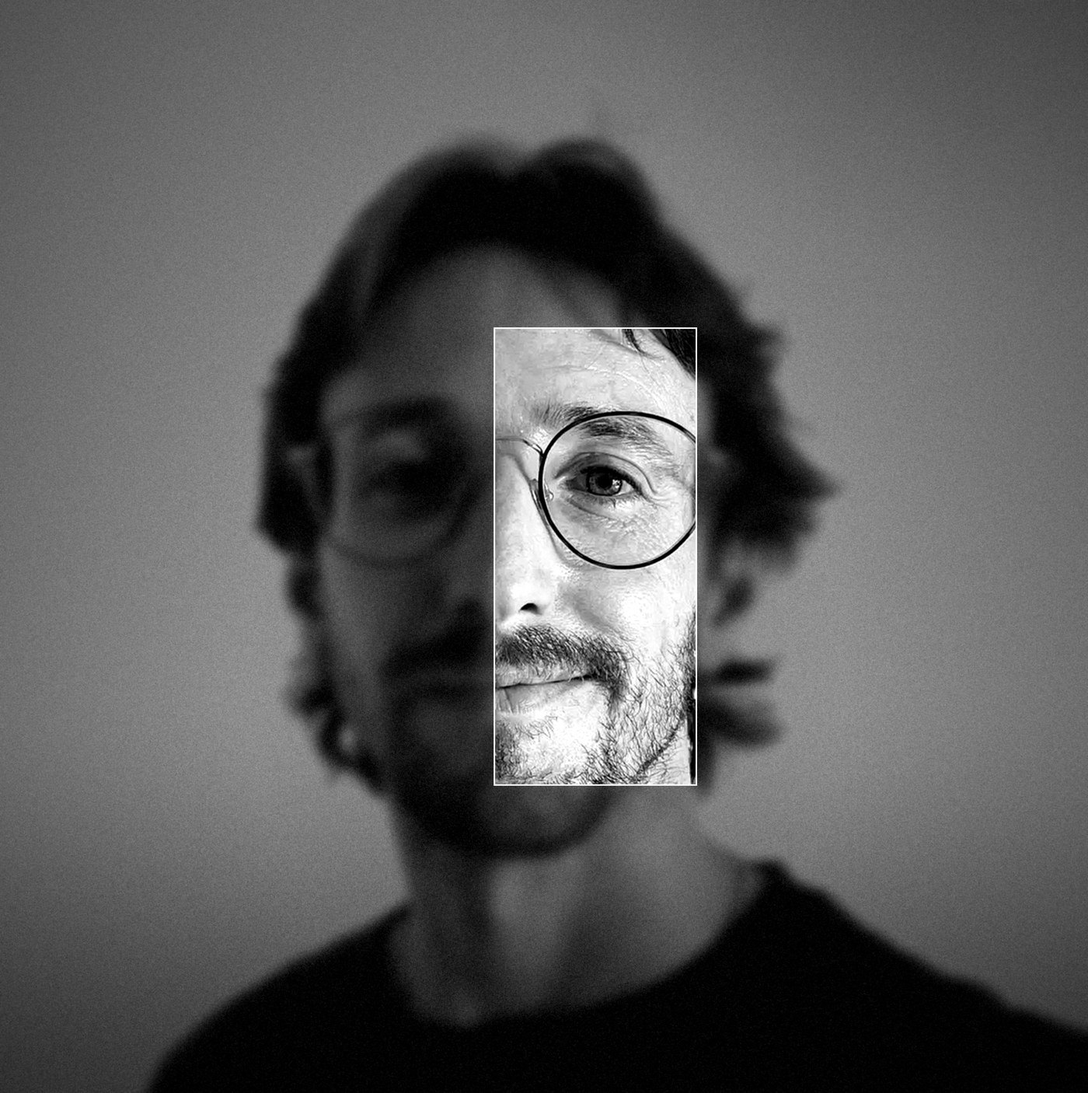
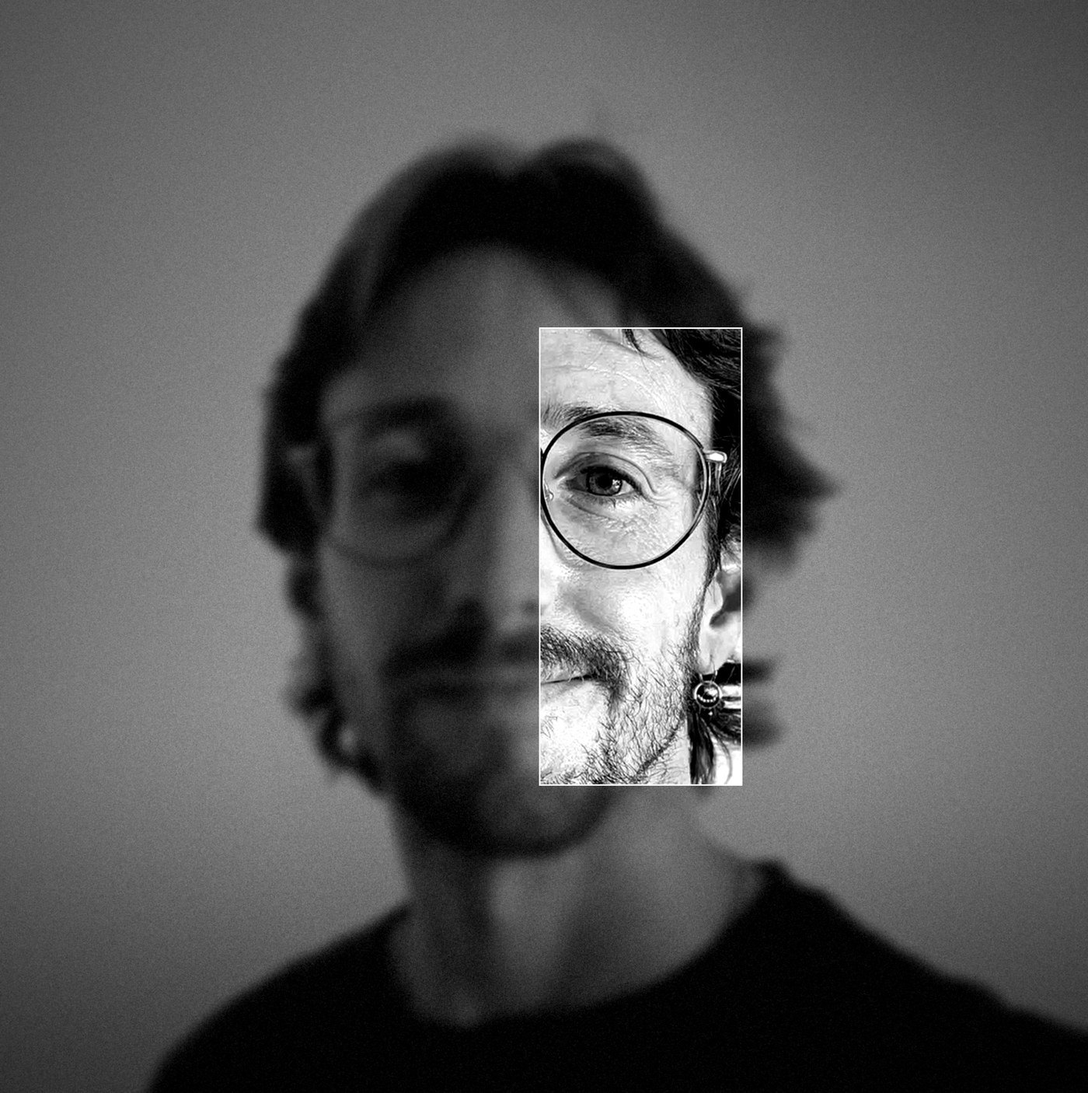
Nom més gran i a prop de la base, rectangle desplaçat a la dreta, imatge de link en pla general
Claude-Session: https://claude.ai/code/session_01Gu4fKh15S1mJkh4ThjJ3MW

Changed region(s): [[0.43, 0.2752, 0.5221, 0.734], [0.6143, 0.2752, 0.7064, 0.734]]

diff --git a/index.html b/index.html
@@ -9,7 +9,7 @@
 <meta property="og:type" content="website">
 <meta property="og:title" content="Pau Fotografia · Pack promocional – Llançament · 89 €">
 <meta property="og:description" content="Sessió de 45 min – 1 h, 15 – 20 fotografies. Retrat · Família · Embaràs · Parella. Vàlid per a reserves fins al 31/12/2026.">
-<meta property="og:image" content="https://pau-fotografia.pages.dev/pack/og.jpg?v=11">
+<meta property="og:image" content="https://pau-fotografia.pages.dev/pack/og.jpg?v=13">
 <meta property="og:image:width" content="1200">
 <meta property="og:image:height" content="630">
 <meta property="og:url" content="https://pau-fotografia.pages.dev/">
@@ -41,7 +41,7 @@ body{background:#0a0a0a;color:#f2ecde;font-family:Inter,system-ui,sans-serif;-we
 .hero .top .sm{padding-top:.45em;min-width:0}
 .ctrls{flex-shrink:0}
 .ctrls{display:flex;flex-direction:column;align-items:flex-end;gap:8px}
-.hero h1{position:absolute;left:calc(4.6*var(--u));bottom:calc(3.6*var(--u));font-size:calc(11.85*var(--u));font-weight:600;letter-spacing:-.055em;line-height:1;white-space:nowrap;z-index:2}
+.hero h1{position:absolute;left:calc(4.6*var(--u));bottom:calc(1.7*var(--u));font-size:calc(14*var(--u));font-weight:600;letter-spacing:-.055em;line-height:1;white-space:nowrap;z-index:2}
 .toggle{display:flex;border:1px solid rgba(255,255,255,.7)}
 .toggle button{font:700 max(10px,calc(1.5*var(--u)))/1 Inter,sans-serif;letter-spacing:.1em;text-transform:uppercase;color:#f2ecde;background:none;border:0;padding:.7em .9em .65em;cursor:pointer}
 .toggle button.on{background:#f2ecde;color:#2d2a28}
@@ -199,7 +199,7 @@ button.big{background:none;border:0;padding:0;font-family:inherit;text-align:lef
 .hero{grid-column:1/13;grid-row:1;aspect-ratio:auto;height:var(--hh)}
 .hero picture img{object-position:0 0}
 .hero .top{left:calc(var(--hh)*.052);right:calc(6*var(--u));top:calc(var(--hh)*.05)}
-.hero h1{font-size:calc(var(--hh)*.1185);left:calc(var(--hh)*.046);bottom:calc(var(--hh)*.036)}
+.hero h1{font-size:calc(var(--hh)*.14);left:calc(var(--hh)*.046);bottom:calc(var(--hh)*.017)}
 .page>.qui{grid-column:1/13;grid-row:1;z-index:3;background:transparent;display:flex;flex-direction:column;justify-content:center;padding:calc(8*var(--u)) calc(6*var(--u)) calc(6*var(--u)) calc(var(--hh) + 6*var(--u));max-width:calc(var(--hh) + 6*var(--u) + 720px);pointer-events:none}
 .page>.qui *{pointer-events:auto}
 .com{grid-column:1/6;grid-row:2;display:flex;flex-direction:column;justify-content:center;padding:calc(6*var(--u))}
@@ -217,8 +217,8 @@ button.big{background:none;border:0;padding:0;font-family:inherit;text-align:lef
 }
 
 html,body{background:#1b1918}
[4 lines of base64/hex data omitted]
 body,.page{color:#f2ecde}
 .hero h1,.hero .top{color:#f2ecde}
 .page{background-color:#1b1918;background-image:url(/pack/paper-tile.png?v=2),linear-gradient(180deg,#1b1918 0%,#1b1918 12%,#2d2a28 32%,#2d2a28 100%);background-size:256px 256px,100% 100%;background-blend-mode:overlay,normal}
@@ -258,7 +258,7 @@ body,.page{color:#f2ecde}
 <header class="bar" aria-hidden="true"><a class="wm" href="#inici">Pau Fotografia</a><nav><a href="#contacte" data-t="cont">Contacte</a></nav></header>
 <main class="page" id="inici">
   <section class="hero">
-    <picture><source media="(min-width:1200px)" srcset="/pack/hero-wide.jpg?v=20261118c"><img src="/pack/hero.jpg?v=20261118c" alt="Pau amb ulleres, fons desenfocat i una finestra nítida sobre mig rostre" fetchpriority="high"></picture>
+    <picture><source media="(min-width:1200px)" srcset="/pack/hero-wide.jpg?v=20261118d"><img src="/pack/hero.jpg?v=20261118d" alt="Pau amb ulleres, fons desenfocat i una finestra nítida sobre mig rostre" fetchpriority="high"></picture>
     <div class="top"><div class="sm" data-t="tag">Fotògraf social i documental</div>
       <div class="ctrls"><div class="toggle lang" role="group" aria-label="Idioma"><button class="on" data-lang="ca">CAT</button><span>|</span><button data-lang="es">ESP</button><span>|</span><button data-lang="en">ENG</button></div></div></div>
     <h1>Pau Fotografia</h1>
@@ -269,14 +269,14 @@ body,.page{color:#f2ecde}
     <div class="quote"><p data-t="quote">«El document humà per mantenir el present i el futur en contacte amb el passat.»</p><div class="lb">Lewis Hine</div></div>
   </section>
   <div class="hl"></div>
-  <div class="slider multi sl-elvi" style="aspect-ratio:1080/1150"><div class="track"><figure class="slide"><img class="b" data-v="elvi" src="/pack/elvi-color.jpg?v=20261118c" alt="Elvi somrient amb un floc de cabell davant la cara" loading="eager" style="object-position:50% 30%"><img class="o" data-v="elvi" src="/pack/elvi-bn.jpg?v=20261118c" alt="" aria-hidden="true" loading="lazy" style="object-position:50% 30%"><button class="sw" type="button" aria-label="Veure en blanc i negre"><i></i></button></figure><figure class="slide"><img class="b" data-v="elvi-01" src="/pack/elvi-01-color.jpg?v=20261118c" alt="Elvi amb les mans als cabells" loading="lazy" style="object-position:50% 30%"><img class="o" data-v="elvi-01" src="/pack/elvi-01-bn.jpg?v=20261118c" alt="" aria-hidden="true" loading="lazy" style="object-position:50% 30%"><button class="sw" type="button" aria-label="Veure en blanc i negre"><i></i></button></figure><figure class="slide"><img class="b" data-v="elvi-03" src="/pack/elvi-03-color.jpg?v=20261118c" alt="Elvi mirant de reüll" loading="lazy" style="object-position:50% 30%"><img class="o" data-v="elvi-03" src="/pack/elvi-03-bn.jpg?v=20261118c" alt="" aria-hidden="true" loading="lazy" style="object-position:50% 30%"><button class="sw" type="button" aria-label="Veure en blanc i negre"><i></i></button></figure><figure class="slide"><img class="b" data-v="elvi-04" src="/pack/elvi-04-color.jpg?v=20261118c" alt="Elvi de perfil a la finestra" loading="lazy" style="object-position:50% 30%"><img class="o" data-v="elvi-04" src="/pack/elvi-04-bn.jpg?v=20261118c" alt="" aria-hidden="true" loading="lazy" style="object-position:50% 30%"><button class="sw" type="button" aria-label="Veure en blanc i negre"><i></i></button></figure><figure class="slide"><img class="b" data-v="elvi-05" src="/pack/elvi-05-color.jpg?v=20261118c" alt="Elvi amb la llum de la cortina" loading="lazy" style="object-position:50% 30%"><img class="o" data-v="elvi-05" src="/pack/elvi-05-bn.jpg?v=20261118c" alt="" aria-hidden="true" loading="lazy" style="object-position:50% 30%"><button class="sw" type="button" aria-label="Veure en blanc i negre"><i></i></button></figure></div><div class="dots"><i class=on></i><i></i><i></i><i></i><i></i></div><div class="count">1/5</div><button class="nav prev" aria-label="Anterior">‹</button><button class="nav next" aria-label="Següent">›</button></div>
+  <div class="slider multi sl-elvi" style="aspect-ratio:1080/1150"><div class="track"><figure class="slide"><img class="b" data-v="elvi" src="/pack/elvi-color.jpg?v=20261118d" alt="Elvi somrient amb un floc de cabell davant la cara" loading="eager" style="object-position:50% 30%"><img class="o" data-v="elvi" src="/pack/elvi-bn.jpg?v=20261118d" alt="" aria-hidden="true" loading="lazy" style="object-position:50% 30%"><button class="sw" type="button" aria-label="Veure en blanc i negre"><i></i></button></figure><figure class="slide"><img class="b" data-v="elvi-01" src="/pack/elvi-01-color.jpg?v=20261118d" alt="Elvi amb les mans als cabells" loading="lazy" style="object-position:50% 30%"><img class="o" data-v="elvi-01" src="/pack/elvi-01-bn.jpg?v=20261118d" alt="" aria-hidden="true" loading="lazy" style="object-position:50% 30%"><button class="sw" type="button" aria-label="Veure en blanc i negre"><i></i></button></figure><figure class="slide"><img class="b" data-v="elvi-03" src="/pack/elvi-03-color.jpg?v=20261118d" alt="Elvi mirant de reüll" loading="lazy" style="object-position:50% 30%"><img class="o" data-v="elvi-03" src="/pack/elvi-03-bn.jpg?v=20261118d" alt="" aria-hidden="true" loading="lazy" style="object-position:50% 30%"><button class="sw" type="button" aria-label="Veure en blanc i negre"><i></i></button></figure><figure class="slide"><img class="b" data-v="elvi-04" src="/pack/elvi-04-color.jpg?v=20261118d" alt="Elvi de perfil a la finestra" loading="lazy" style="object-position:50% 30%"><img class="o" data-v="elvi-04" src="/pack/elvi-04-bn.jpg?v=20261118d" alt="" aria-hidden="true" loading="lazy" style="object-position:50% 30%"><button class="sw" type="button" aria-label="Veure en blanc i negre"><i></i></button></figure><figure class="slide"><img class="b" data-v="elvi-05" src="/pack/elvi-05-color.jpg?v=20261118d" alt="Elvi amb la llum de la cortina" loading="lazy" style="object-position:50% 30%"><img class="o" data-v="elvi-05" src="/pack/elvi-05-bn.jpg?v=20261118d" alt="" aria-hidden="true" loading="lazy" style="object-position:50% 30%"><button class="sw" type="button" aria-label="Veure en blanc i negre"><i></i></button></figure></div><div class="dots"><i class=on></i><i></i><i></i><i></i><i></i></div><div class="count">1/5</div><button class="nav prev" aria-label="Anterior">‹</button><button class="nav next" aria-label="Següent">›</button></div>
   <div class="hl"></div>
   <section class="com pad">
     <div class="lb" data-t="com">Com treballo</div>
     <p class="body" data-t="ct">Sense estudi ni decorats, als llocs quotidians i còmodes. Tu tries l'espai i el vestuari. Jo m'adapto i interfereixo el mínim perquè la càmera no sigui un obstacle per captar aquell gest, somriure o mirada espontània i real.</p>
   </section>
   <div class="hl"></div>
-  <div class="pair"><div class="slider multi sl-nuvis" style="aspect-ratio:540/720"><div class="track"><figure class="slide"><img class="b" data-v="nuvis" src="/pack/nuvis-color.jpg?v=20261118c" alt="Parella de nuvis rient a la porta" loading="lazy" style="object-position:50% 50%"><img class="o" data-v="nuvis" src="/pack/nuvis-bn.jpg?v=20261118c" alt="" aria-hidden="true" loading="lazy" style="object-position:50% 50%"><button class="sw" type="button" aria-label="Veure en blanc i negre"><i></i></button></figure><figure class="slide"><img class="b" data-v="casament-pandemia-05" src="/pack/casament-pandemia-05-color.jpg?v=20261118c" alt="Nuvis amb mascareta" loading="lazy" style="object-position:50% 50%"><img class="o" data-v="casament-pandemia-05" src="/pack/casament-pandemia-05-bn.jpg?v=20261118c" alt="" aria-hidden="true" loading="lazy" style="object-position:50% 50%"><button class="sw" type="button" aria-label="Veure en blanc i negre"><i></i></button></figure><figure class="slide"><img class="b" data-v="casament-pandemia-02" src="/pack/casament-pandemia-02-color.jpg?v=20261118c" alt="Ajustant el vestit" loading="lazy" style="object-position:50% 30%"><img class="o" data-v="casament-pandemia-02" src="/pack/casament-pandemia-02-bn.jpg?v=20261118c" alt="" aria-hidden="true" loading="lazy" style="object-position:50% 30%"><button class="sw" type="button" aria-label="Veure en blanc i negre"><i></i></button></figure><figure class="slide mono"><img class="b" data-v="casament-pandemia-04" src="/pack/casament-pandemia-04-bn.jpg?v=20261118c" alt="Sortida entre arròs" loading="lazy" style="object-position:50% 50%"></figure><figure class="slide mono"><img class="b" data-v="casament-pandemia-08" src="/pack/casament-pandemia-08-bn.jpg?v=20261118c" alt="La cerimònia" loading="lazy" style="object-position:50% 50%"></figure><figure class="slide mono"><img class="b" data-v="casament-pandemia-01" src="/pack/casament-pandemia-01-bn.jpg?v=20261118c" alt="Pentinat davant del mirall" loading="lazy" style="object-position:50% 50%"></figure></div><div class="dots"><i class=on></i><i></i><i></i><i></i><i></i><i></i></div><div class="count">1/6</div><button class="nav prev" aria-label="Anterior">‹</button><button class="nav next" aria-label="Següent">›</button></div><div class="slider multi sl-maneta" style="aspect-ratio:540/720"><div class="track"><figure class="slide"><img class="b" data-v="maneta" src="/pack/maneta-color.jpg?v=20261118c" alt="Mà d’un nadó sobre la pell" loading="lazy" style="object-position:50% 50%"><img class="o" data-v="maneta" src="/pack/maneta-bn.jpg?v=20261118c" alt="" aria-hidden="true" loading="lazy" style="object-position:50% 50%"><button class="sw" type="button" aria-label="Veure en blanc i negre"><i></i></button></figure><figure class="slide mono"><img class="b" data-v="familia-05" src="/pack/familia-05-bn.jpg?v=20261118c" alt="Peus petits" loading="lazy" style="object-position:50% 50%"></figure><figure class="slide"><img class="b" data-v="familia-07" src="/pack/familia-07-color.jpg?v=20261118c" alt="La mà a l’esquena" loading="lazy" style="object-position:50% 50%"><img class="o" data-v="familia-07" src="/pack/familia-07-bn.jpg?v=20261118c" alt="" aria-hidden="true" loading="lazy" style="object-position:50% 50%"><button class="sw" type="button" aria-label="Veure en blanc i negre"><i></i></button></figure></div><div class="dots"><i class=on></i><i></i><i></i></div><div class="count">1/3</div><button class="nav prev" aria-label="Anterior">‹</button><button class="nav next" aria-label="Següent">›</button></div></div>
+  <div class="pair"><div class="slider multi sl-nuvis" style="aspect-ratio:540/720"><div class="track"><figure class="slide"><img class="b" data-v="nuvis" src="/pack/nuvis-color.jpg?v=20261118d" alt="Parella de nuvis rient a la porta" loading="lazy" style="object-position:50% 50%"><img class="o" data-v="nuvis" src="/pack/nuvis-bn.jpg?v=20261118d" alt="" aria-hidden="true" loading="lazy" style="object-position:50% 50%"><button class="sw" type="button" aria-label="Veure en blanc i negre"><i></i></button></figure><figure class="slide"><img class="b" data-v="casament-pandemia-05" src="/pack/casament-pandemia-05-color.jpg?v=20261118d" alt="Nuvis amb mascareta" loading="lazy" style="object-position:50% 50%"><img class="o" data-v="casament-pandemia-05" src="/pack/casament-pandemia-05-bn.jpg?v=20261118d" alt="" aria-hidden="true" loading="lazy" style="object-position:50% 50%"><button class="sw" type="button" aria-label="Veure en blanc i negre"><i></i></button></figure><figure class="slide"><img class="b" data-v="casament-pandemia-02" src="/pack/casament-pandemia-02-color.jpg?v=20261118d" alt="Ajustant el vestit" loading="lazy" style="object-position:50% 30%"><img class="o" data-v="casament-pandemia-02" src="/pack/casament-pandemia-02-bn.jpg?v=20261118d" alt="" aria-hidden="true" loading="lazy" style="object-position:50% 30%"><button class="sw" type="button" aria-label="Veure en blanc i negre"><i></i></button></figure><figure class="slide mono"><img class="b" data-v="casament-pandemia-04" src="/pack/casament-pandemia-04-bn.jpg?v=20261118d" alt="Sortida entre arròs" loading="lazy" style="object-position:50% 50%"></figure><figure class="slide mono"><img class="b" data-v="casament-pandemia-08" src="/pack/casament-pandemia-08-bn.jpg?v=20261118d" alt="La cerimònia" loading="lazy" style="object-position:50% 50%"></figure><figure class="slide mono"><img class="b" data-v="casament-pandemia-01" src="/pack/casament-pandemia-01-bn.jpg?v=20261118d" alt="Pentinat davant del mirall" loading="lazy" style="object-position:50% 50%"></figure></div><div class="dots"><i class=on></i><i></i><i></i><i></i><i></i><i></i></div><div class="count">1/6</div><button class="nav prev" aria-label="Anterior">‹</button><button class="nav next" aria-label="Següent">›</button></div><div class="slider multi sl-maneta" style="aspect-ratio:540/720"><div class="track"><figure class="slide"><img class="b" data-v="maneta" src="/pack/maneta-color.jpg?v=20261118d" alt="Mà d’un nadó sobre la pell" loading="lazy" style="object-position:50% 50%"><img class="o" data-v="maneta" src="/pack/maneta-bn.jpg?v=20261118d" alt="" aria-hidden="true" loading="lazy" style="object-position:50% 50%"><button class="sw" type="button" aria-label="Veure en blanc i negre"><i></i></button></figure><figure class="slide mono"><img class="b" data-v="familia-05" src="/pack/familia-05-bn.jpg?v=20261118d" alt="Peus petits" loading="lazy" style="object-position:50% 50%"></figure><figure class="slide"><img class="b" data-v="familia-07" src="/pack/familia-07-color.jpg?v=20261118d" alt="La mà a l’esquena" loading="lazy" style="object-position:50% 50%"><img class="o" data-v="familia-07" src="/pack/familia-07-bn.jpg?v=20261118d" alt="" aria-hidden="true" loading="lazy" style="object-position:50% 50%"><button class="sw" type="button" aria-label="Veure en blanc i negre"><i></i></button></figure></div><div class="dots"><i class=on></i><i></i><i></i></div><div class="count">1/3</div><button class="nav prev" aria-label="Anterior">‹</button><button class="nav next" aria-label="Següent">›</button></div></div>
   <div class="hl"></div>
   <section class="pack">
     <div class="prow"><button class="pill" type="button" aria-haspopup="dialog"><span data-t="pack">Pack promocional – Llançament</span><i class="pplus" aria-hidden="true"></i></button><div class="price">89 €<span class="ast">*</span></div>
@@ -284,9 +284,9 @@ body,.page{color:#f2ecde}
     <div class="ptypes" data-t="tipus"><span>Retrat</span><i>·</i><span>Família</span><i>·</i><span>Embaràs</span><i>·</i><span>Parella</span></div>
   </section>
   <div class="hl"></div>
-  <div class="slider sl-mocador" style="aspect-ratio:1080/720"><div class="track"><figure class="slide"><img class="b" data-v="mocador" src="/pack/mocador-color.jpg?v=20261118c" alt="Retrat d’una dona amb mocador entre el fum" loading="lazy" style="object-position:50% 40%"><img class="o" data-v="mocador" src="/pack/mocador-bn.jpg?v=20261118c" alt="" aria-hidden="true" loading="lazy" style="object-position:50% 40%"><button class="sw" type="button" aria-label="Veure en blanc i negre"><i></i></button></figure></div></div>
+  <div class="slider sl-mocador" style="aspect-ratio:1080/720"><div class="track"><figure class="slide"><img class="b" data-v="mocador" src="/pack/mocador-color.jpg?v=20261118d" alt="Retrat d’una dona amb mocador entre el fum" loading="lazy" style="object-position:50% 40%"><img class="o" data-v="mocador" src="/pack/mocador-bn.jpg?v=20261118d" alt="" aria-hidden="true" loading="lazy" style="object-position:50% 40%"><button class="sw" type="button" aria-label="Veure en blanc i negre"><i></i></button></figure></div></div>
   <div class="hl"></div>
-  <div class="pair"><div class="slider multi sl-ulleres" style="aspect-ratio:540/720"><div class="track"><figure class="slide"><img class="b" data-v="ulleres" src="/pack/ulleres-color.jpg?v=20261118c" alt="Home rient amb ulleres de sol" loading="lazy" style="object-position:50% 50%"><img class="o" data-v="ulleres" src="/pack/ulleres-bn.jpg?v=20261118c" alt="" aria-hidden="true" loading="lazy" style="object-position:50% 50%"><button class="sw" type="button" aria-label="Veure en blanc i negre"><i></i></button></figure><figure class="slide"><img class="b" data-v="llum-desembre-05" src="/pack/llum-desembre-05-color.jpg?v=20261118c" alt="Cara al sol" loading="lazy" style="object-position:64% 50%"><img class="o" data-v="llum-desembre-05" src="/pack/llum-desembre-05-bn.jpg?v=20261118c" alt="" aria-hidden="true" loading="lazy" style="object-position:64% 50%"><button class="sw" type="button" aria-label="Veure en blanc i negre"><i></i></button></figure><figure class="slide"><img class="b" data-v="llum-desembre-02" src="/pack/llum-desembre-02-color.jpg?v=20261118c" alt="Somriure amb caputxa" loading="lazy" style="object-position:52% 50%"><img class="o" data-v="llum-desembre-02" src="/pack/llum-desembre-02-bn.jpg?v=20261118c" alt="" aria-hidden="true" loading="lazy" style="object-position:52% 50%"><button class="sw" type="button" aria-label="Veure en blanc i negre"><i></i></button></figure><figure class="slide"><img class="b" data-v="llum-desembre-04" src="/pack/llum-desembre-04-color.jpg?v=20261118c" alt="Per sobre de les ulleres" loading="lazy" style="object-position:56% 50%"><img class="o" data-v="llum-desembre-04" src="/pack/llum-desembre-04-bn.jpg?v=20261118c" alt="" aria-hidden="true" loading="lazy" style="object-position:56% 50%"><button class="sw" type="button" aria-label="Veure en blanc i negre"><i></i></button></figure><figure class="slide"><img class="b" data-v="llum-desembre-01" src="/pack/llum-desembre-01-color.jpg?v=20261118c" alt="Mitja cara a la llum" loading="lazy" style="object-position:54% 50%"><img class="o" data-v="llum-desembre-01" src="/pack/llum-desembre-01-bn.jpg?v=20261118c" alt="" aria-hidden="true" loading="lazy" style="object-position:54% 50%"><button class="sw" type="button" aria-label="Veure en blanc i negre"><i></i></button></figure></div><div class="dots"><i class=on></i><i></i><i></i><i></i><i></i></div><div class="count">1/5</div><button class="nav prev" aria-label="Anterior">‹</button><button class="nav next" aria-label="Següent">›</button></div><div class="slider multi sl-confeti" style="aspect-ratio:540/720"><div class="track"><figure class="slide"><img class="b" data-v="confeti" src="/pack/confeti-color.jpg?v=20261118c" alt="Nuvis sortint entre confeti amb el ram a l’aire" loading="lazy" style="object-position:64% 50%"><img class="o" data-v="confeti" src="/pack/confeti-bn.jpg?v=20261118c" alt="" aria-hidden="true" loading="lazy" style="object-position:64% 50%"><button class="sw" type="button" aria-label="Veure en blanc i negre"><i></i></button></figure><figure class="slide"><img class="b" data-v="casament-01" src="/pack/casament-01-color.jpg?v=20261118c" alt="Sortida entre confeti" loading="lazy" style="object-position:55% 50%"><img class="o" data-v="casament-01" src="/pack/casament-01-bn.jpg?v=20261118c" alt="" aria-hidden="true" loading="lazy" style="object-position:55% 50%"><button class="sw" type="button" aria-label="Veure en blanc i negre"><i></i></button></figure></div><div class="dots"><i class=on></i><i></i></div><div class="count">1/2</div><button class="nav prev" aria-label="Anterior">‹</button><button class="nav next" aria-label="Següent">›</button></div></div>
+  <div class="pair"><div class="slider multi sl-ulleres" style="aspect-ratio:540/720"><div class="track"><figure class="slide"><img class="b" data-v="ulleres" src="/pack/ulleres-color.jpg?v=20261118d" alt="Home rient amb ulleres de sol" loading="lazy" style="object-position:50% 50%"><img class="o" data-v="ulleres" src="/pack/ulleres-bn.jpg?v=20261118d" alt="" aria-hidden="true" loading="lazy" style="object-position:50% 50%"><button class="sw" type="button" aria-label="Veure en blanc i negre"><i></i></button></figure><figure class="slide"><img class="b" data-v="llum-desembre-05" src="/pack/llum-desembre-05-color.jpg?v=20261118d" alt="Cara al sol" loading="lazy" style="object-position:64% 50%"><img class="o" data-v="llum-desembre-05" src="/pack/llum-desembre-05-bn.jpg?v=20261118d" alt="" aria-hidden="true" loading="lazy" style="object-position:64% 50%"><button class="sw" type="button" aria-label="Veure en blanc i negre"><i></i></button></figure><figure class="slide"><img class="b" data-v="llum-desembre-02" src="/pack/llum-desembre-02-color.jpg?v=20261118d" alt="Somriure amb caputxa" loading="lazy" style="object-position:52% 50%"><img class="o" data-v="llum-desembre-02" src="/pack/llum-desembre-02-bn.jpg?v=20261118d" alt="" aria-hidden="true" loading="lazy" style="object-position:52% 50%"><button class="sw" type="button" aria-label="Veure en blanc i negre"><i></i></button></figure><figure class="slide"><img class="b" data-v="llum-desembre-04" src="/pack/llum-desembre-04-color.jpg?v=20261118d" alt="Per sobre de les ulleres" loading="lazy" style="object-position:56% 50%"><img class="o" data-v="llum-desembre-04" src="/pack/llum-desembre-04-bn.jpg?v=20261118d" alt="" aria-hidden="true" loading="lazy" style="object-position:56% 50%"><button class="sw" type="button" aria-label="Veure en blanc i negre"><i></i></button></figure><figure class="slide"><img class="b" data-v="llum-desembre-01" src="/pack/llum-desembre-01-color.jpg?v=20261118d" alt="Mitja cara a la llum" loading="lazy" style="object-position:54% 50%"><img class="o" data-v="llum-desembre-01" src="/pack/llum-desembre-01-bn.jpg?v=20261118d" alt="" aria-hidden="true" loading="lazy" style="object-position:54% 50%"><button class="sw" type="button" aria-label="Veure en blanc i negre"><i></i></button></figure></div><div class="dots"><i class=on></i><i></i><i></i><i></i><i></i></div><div class="count">1/5</div><button class="nav prev" aria-label="Anterior">‹</button><button class="nav next" aria-label="Següent">›</button></div><div class="slider multi sl-confeti" style="aspect-ratio:540/720"><div class="track"><figure class="slide"><img class="b" data-v="confeti" src="/pack/confeti-color.jpg?v=20261118d" alt="Nuvis sortint entre confeti amb el ram a l’aire" loading="lazy" style="object-position:64% 50%"><img class="o" data-v="confeti" src="/pack/confeti-bn.jpg?v=20261118d" alt="" aria-hidden="true" loading="lazy" style="object-position:64% 50%"><button class="sw" type="button" aria-label="Veure en blanc i negre"><i></i></button></figure><figure class="slide"><img class="b" data-v="casament-01" src="/pack/casament-01-color.jpg?v=20261118d" alt="Sortida entre confeti" loading="lazy" style="object-position:55% 50%"><img class="o" data-v="casament-01" src="/pack/casament-01-bn.jpg?v=20261118d" alt="" aria-hidden="true" loading="lazy" style="object-position:55% 50%"><button class="sw" type="button" aria-label="Veure en blanc i negre"><i></i></button></figure></div><div class="dots"><i class=on></i><i></i></div><div class="count">1/2</div><button class="nav prev" aria-label="Anterior">‹</button><button class="nav next" aria-label="Següent">›</button></div></div>
   <div class="hl"></div>
   <section class="contact pad" id="contacte">
     <div class="gear">
@@ -323,7 +323,7 @@ document.querySelectorAll('.slider.multi').forEach(function(s){
 var MODE='color';
 function L(){var l=document.documentElement.lang;return {ca:{swb:'Veure en blanc i negre',swc:'Veure en color'},es:{swb:'Ver en blanco y negro',swc:'Ver en color'},en:{swb:'View in black and white',swc:'View in colour'}}[l]||{swb:'Veure en blanc i negre',swc:'Veure en color'}}
 function other(){return MODE==='bn'?'color':'bn'}
-function src2(o){return '/pack/'+o.dataset.v+'-'+other()+'.jpg?v=20261118c'}
+function src2(o){return '/pack/'+o.dataset.v+'-'+other()+'.jpg?v=20261118d'}
 function setX(f,x,anim){
   var o=f.querySelector('.o');if(!o.getAttribute('src'))o.src=src2(o);
   f.classList.toggle('drag',!anim);f._x=x;
